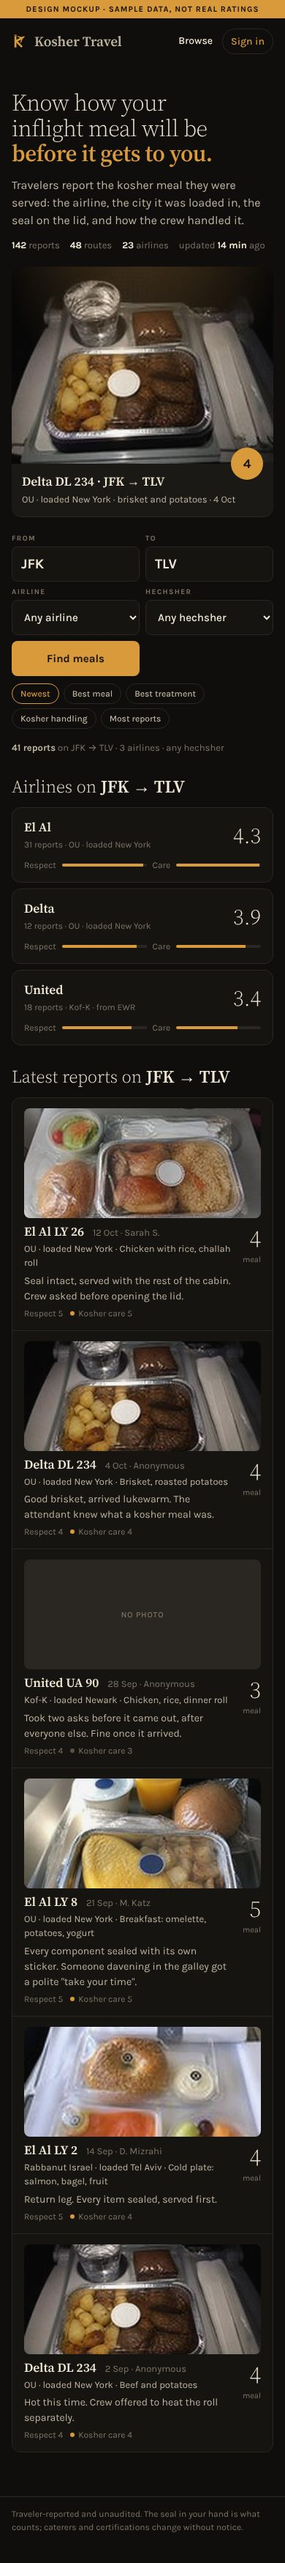
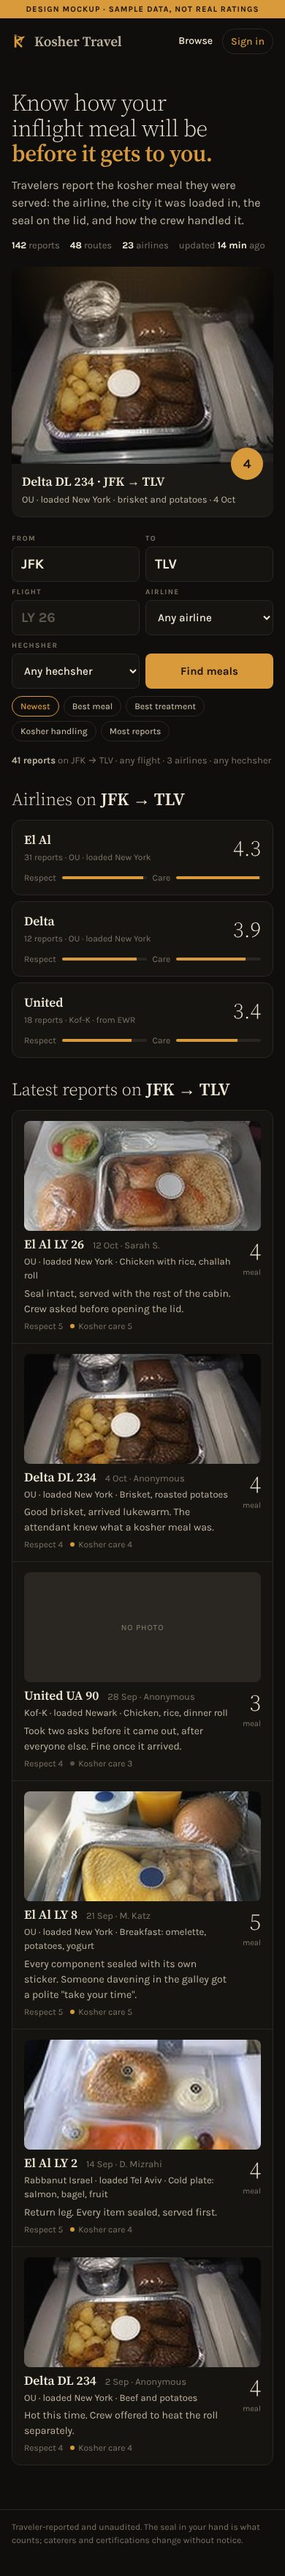
Design review: add a flight-number field to the search on all four options
From, To, Flight, Airline, Hechsher, in the same order on every option, so
the comparison stays design-only. Screenshots re-rendered.

Claude-Session: https://claude.ai/code/session_016gWTEAGhwpP43MkFyTC7xc

diff --git a/design-review/a.html b/design-review/a.html
@@ -50,9 +50,10 @@ nav a.btn{border:1px solid var(--amber);color:var(--amber)}
 .sel label{display:block;font:600 10px var(--m);letter-spacing:.14em;text-transform:uppercase;color:var(--mute);margin-bottom:5px}
 .sel input,.sel select{width:100%;height:46px;background:var(--board);border:1px solid var(--line);color:var(--ink);font:600 22px var(--d);text-transform:uppercase;letter-spacing:.06em;padding:0 12px;border-radius:0}
 .sel select{font-size:18px}
+.sel input::placeholder{color:var(--mute);opacity:.7}
 .sel .go{align-self:end}
 .sel .go button{width:100%;height:46px;background:var(--amber-fill);color:var(--amber-ink);border:0;font:700 18px var(--d);text-transform:uppercase;letter-spacing:.1em;cursor:pointer}
-@media(min-width:760px){.sel{grid-template-columns:1fr 1fr 1.2fr 1.4fr .8fr}}
+@media(min-width:760px){.sel{grid-template-columns:.9fr .9fr 1fr 1.2fr 1.4fr .8fr}}
 .sort{display:flex;gap:6px;flex-wrap:wrap;margin-top:10px}
 .sort a{font:500 11px var(--m);letter-spacing:.08em;text-transform:uppercase;padding:6px 10px;border:1px solid var(--line);color:var(--ink-2)}
 .sort a.on{border-color:var(--amber);color:var(--amber)}
@@ -120,12 +121,13 @@ footer{border-top:1px solid var(--line);padding:18px 0 40px;font:400 12px var(--
 <form class="sel" onsubmit="return false">
   <div><label for="a-from">From</label><input id="a-from" value="JFK"></div>
   <div><label for="a-to">To</label><input id="a-to" value="TLV"></div>
+  <div><label for="a-flight">Flight</label><input id="a-flight" placeholder="LY 26"></div>
   <div><label for="a-al">Airline</label><select id="a-al"><option>Any airline</option><option>El Al</option><option>Delta</option><option>United</option></select></div>
   <div><label for="a-h">Hechsher</label><select id="a-h"><option>Any hechsher</option><option>OU</option><option>Kof-K</option><option>KLBD</option></select></div>
   <div class="go"><button type="submit">Find meals</button></div>
 </form>
 <div class="sort"><a class="on" href="#">Newest</a><a href="#">Best meal</a><a href="#">Best treatment</a><a href="#">Kosher handling</a><a href="#">Most reports</a></div>
-<p class="count"><b>41 reports</b> on JFK → TLV · 3 airlines · any hechsher</p>
+<p class="count"><b>41 reports</b> on JFK → TLV · any flight · 3 airlines · any hechsher</p>
 
 <h2 class="sec">Airlines on JFK → TLV</h2>
 <section class="board" aria-label="Airlines on this route">

diff --git a/design-review/b.html b/design-review/b.html
@@ -51,9 +51,10 @@ nav a.btn{color:var(--amber);border:1px solid var(--line);border-radius:999px}
 .sel label{display:block;font:700 10px var(--f);letter-spacing:.14em;text-transform:uppercase;color:var(--mute);margin-bottom:5px}
 .sel input,.sel select{width:100%;height:48px;background:var(--bg-2);border:1px solid var(--line);color:var(--ink);font:600 19px var(--f);text-transform:uppercase;padding:0 12px;border-radius:8px}
 .sel select{font-size:15px;font-weight:500;text-transform:none}
+.sel input::placeholder{color:var(--mute);opacity:.7}
 .sel .go{align-self:end}
 .sel .go button{width:100%;height:48px;background:var(--amber-fill);color:var(--amber-ink);border:0;border-radius:8px;font:700 15px var(--f);cursor:pointer}
-@media(min-width:760px){.sel{grid-template-columns:1fr 1fr 1.2fr 1.4fr .9fr}}
+@media(min-width:760px){.sel{grid-template-columns:.9fr .9fr 1fr 1.2fr 1.4fr .9fr}}
 .sort{display:flex;gap:6px;flex-wrap:wrap;margin:10px 0 0}
 .sort a{font:500 12px var(--f);padding:6px 11px;border:1px solid var(--line);border-radius:999px;color:var(--ink-2)}
 .sort a.on{border-color:var(--amber);color:var(--amber)}
@@ -110,12 +111,13 @@ footer{padding:14px 0 40px;font-size:12px;color:var(--mute);border-top:1px solid
 <form class="sel" onsubmit="return false">
   <div><label for="b-from">From</label><input id="b-from" value="JFK"></div>
   <div><label for="b-to">To</label><input id="b-to" value="TLV"></div>
+  <div><label for="b-flight">Flight</label><input id="b-flight" placeholder="LY 26"></div>
   <div><label for="b-al">Airline</label><select id="b-al"><option>Any airline</option><option>El Al</option><option>Delta</option><option>United</option></select></div>
   <div><label for="b-h">Hechsher</label><select id="b-h"><option>Any hechsher</option><option>OU</option><option>Kof-K</option><option>KLBD</option></select></div>
   <div class="go"><button type="submit">Find meals</button></div>
 </form>
 <div class="sort"><a class="on" href="#">Newest</a><a href="#">Best meal</a><a href="#">Best treatment</a><a href="#">Kosher handling</a><a href="#">Most reports</a></div>
-<p class="count"><b>41 reports</b> on JFK → TLV · 3 airlines · any hechsher</p>
+<p class="count"><b>41 reports</b> on JFK → TLV · any flight · 3 airlines · any hechsher</p>
 
 <h2 class="sec">Airlines on <b>JFK → TLV</b></h2>
 <div class="ag">

diff --git a/design-review/c.html b/design-review/c.html
@@ -49,9 +49,10 @@ nav a.btn{background:var(--sky);color:#fff}
 .sel label{display:block;font:800 10px var(--f);letter-spacing:.14em;text-transform:uppercase;color:var(--mute);margin-bottom:5px}
 .sel input,.sel select{width:100%;height:48px;background:var(--tray);border:1.5px solid var(--line);color:var(--ink);font:700 22px var(--c);text-transform:uppercase;letter-spacing:.04em;padding:0 12px;border-radius:12px}
 .sel select{font-size:18px}
+.sel input::placeholder{color:var(--mute);opacity:.7}
 .sel .go{align-self:end}
 .sel .go button{width:100%;height:48px;background:var(--sky);color:#fff;border:0;border-radius:12px;font:800 15px var(--f);cursor:pointer}
-@media(min-width:760px){.sel{grid-template-columns:1fr 1fr 1.2fr 1.4fr .8fr}}
+@media(min-width:760px){.sel{grid-template-columns:.9fr .9fr 1fr 1.2fr 1.4fr .8fr}}
 .sort{display:flex;gap:6px;flex-wrap:wrap;margin-top:10px}
 .sort a{font:600 12px var(--f);padding:6px 11px;border:1.5px solid var(--line);border-radius:999px;color:var(--ink-2);background:var(--tray)}
 .sort a.on{border-color:var(--sky);color:var(--sky)}
@@ -125,12 +126,13 @@ footer{padding:16px 0 40px;font-size:13px;color:var(--mute)}
 <form class="sel" onsubmit="return false">
   <div><label for="c-from">From</label><input id="c-from" value="JFK"></div>
   <div><label for="c-to">To</label><input id="c-to" value="TLV"></div>
+  <div><label for="c-flight">Flight</label><input id="c-flight" placeholder="LY 26"></div>
   <div><label for="c-al">Airline</label><select id="c-al"><option>Any airline</option><option>El Al</option><option>Delta</option><option>United</option></select></div>
   <div><label for="c-h">Hechsher</label><select id="c-h"><option>Any hechsher</option><option>OU</option><option>Kof-K</option><option>KLBD</option></select></div>
   <div class="go"><button type="submit">Find meals</button></div>
 </form>
 <div class="sort"><a class="on" href="#">Newest</a><a href="#">Best meal</a><a href="#">Best treatment</a><a href="#">Kosher handling</a><a href="#">Most reports</a></div>
-<p class="count"><b>41 reports</b> on JFK → TLV · 3 airlines · any hechsher</p>
+<p class="count"><b>41 reports</b> on JFK → TLV · any flight · 3 airlines · any hechsher</p>
 
 <div class="tray-table">
   <h2 class="sec">Airlines on JFK → TLV</h2>

diff --git a/design-review/d.html b/design-review/d.html
@@ -47,9 +47,10 @@ nav a.btn{background:var(--sky);color:#fff}
 .sel label{display:block;font:800 10px var(--f);letter-spacing:.14em;text-transform:uppercase;color:var(--mute);margin-bottom:5px}
 .sel input,.sel select{width:100%;height:48px;background:var(--tray-2);border:1.5px solid var(--line);color:var(--ink);font:800 19px var(--f);text-transform:uppercase;padding:0 12px;border-radius:12px}
 .sel select{font-size:15px;font-weight:600;text-transform:none}
+.sel input::placeholder{color:var(--mute);opacity:.7}
 .sel .go{align-self:end}
 .sel .go button{width:100%;height:48px;background:var(--sky);color:#fff;border:0;border-radius:12px;font:800 15px var(--f);cursor:pointer}
-@media(min-width:760px){.sel{grid-template-columns:1fr 1fr 1.2fr 1.4fr .9fr}}
+@media(min-width:760px){.sel{grid-template-columns:.9fr .9fr 1fr 1.2fr 1.4fr .9fr}}
 .sort{display:flex;gap:6px;flex-wrap:wrap;margin:10px 0 0}
 .sort a{font:600 12px var(--f);padding:6px 11px;border:1.5px solid var(--line);border-radius:999px;color:var(--ink-2);background:var(--tray)}
 .sort a.on{border-color:var(--sky);color:var(--sky)}
@@ -102,12 +103,13 @@ footer{padding:16px 0 40px;font-size:13px;color:var(--mute)}
 <form class="sel" onsubmit="return false">
   <div><label for="d-from">From</label><input id="d-from" value="JFK"></div>
   <div><label for="d-to">To</label><input id="d-to" value="TLV"></div>
+  <div><label for="d-flight">Flight</label><input id="d-flight" placeholder="LY 26"></div>
   <div><label for="d-al">Airline</label><select id="d-al"><option>Any airline</option><option>El Al</option><option>Delta</option><option>United</option></select></div>
   <div><label for="d-h">Hechsher</label><select id="d-h"><option>Any hechsher</option><option>OU</option><option>Kof-K</option><option>KLBD</option></select></div>
   <div class="go"><button type="submit">Find meals</button></div>
 </form>
 <div class="sort"><a class="on" href="#">Newest</a><a href="#">Best meal</a><a href="#">Best treatment</a><a href="#">Kosher handling</a><a href="#">Most reports</a></div>
-<p class="count"><b>41 reports</b> on JFK → TLV · 3 airlines · any hechsher</p>
+<p class="count"><b>41 reports</b> on JFK → TLV · any flight · 3 airlines · any hechsher</p>
 
 <div class="tray-table">
   <section class="air">

diff --git a/design-review/index.html b/design-review/index.html
@@ -57,7 +57,7 @@ h1 b{font-weight:700}
   <h1>Four directions for <b>Kosher Travel</b></h1>
   <div class="intro">
     <p>A site where travelers rate kosher inflight meals: the airline, the flight, the city the meal was loaded in, the hechsher on the seal, a score, photos, and how the crew treated them. These are four candidate designs for its home page.</p>
-    <p>All four carry the same copy and the same functions, in the same order: the headline, the search (From, To, Airline, Hechsher, sort), the airlines on the route, and the latest reports on it. Every one follows the device's light or dark setting. The only thing that differs is the design, so that is the only thing to choose on.</p>
+    <p>All four carry the same copy and the same functions, in the same order: the headline, the search (From, To, Flight, Airline, Hechsher, sort), the airlines on the route, and the latest reports on it. Every one follows the device's light or dark setting. The only thing that differs is the design, so that is the only thing to choose on.</p>
   </div>
   <div class="tip">Each mockup is a live page with sample data. Open it on a phone as well as a desktop, and switch your device between light and dark appearance to see both themes; reload after switching.</div>
   <nav class="jump"><a href="#a">A · The Board</a><a href="#b">B · Night Flight</a><a href="#c">C · Board in the Cabin</a><a href="#d">D · Window Seat</a></nav>
